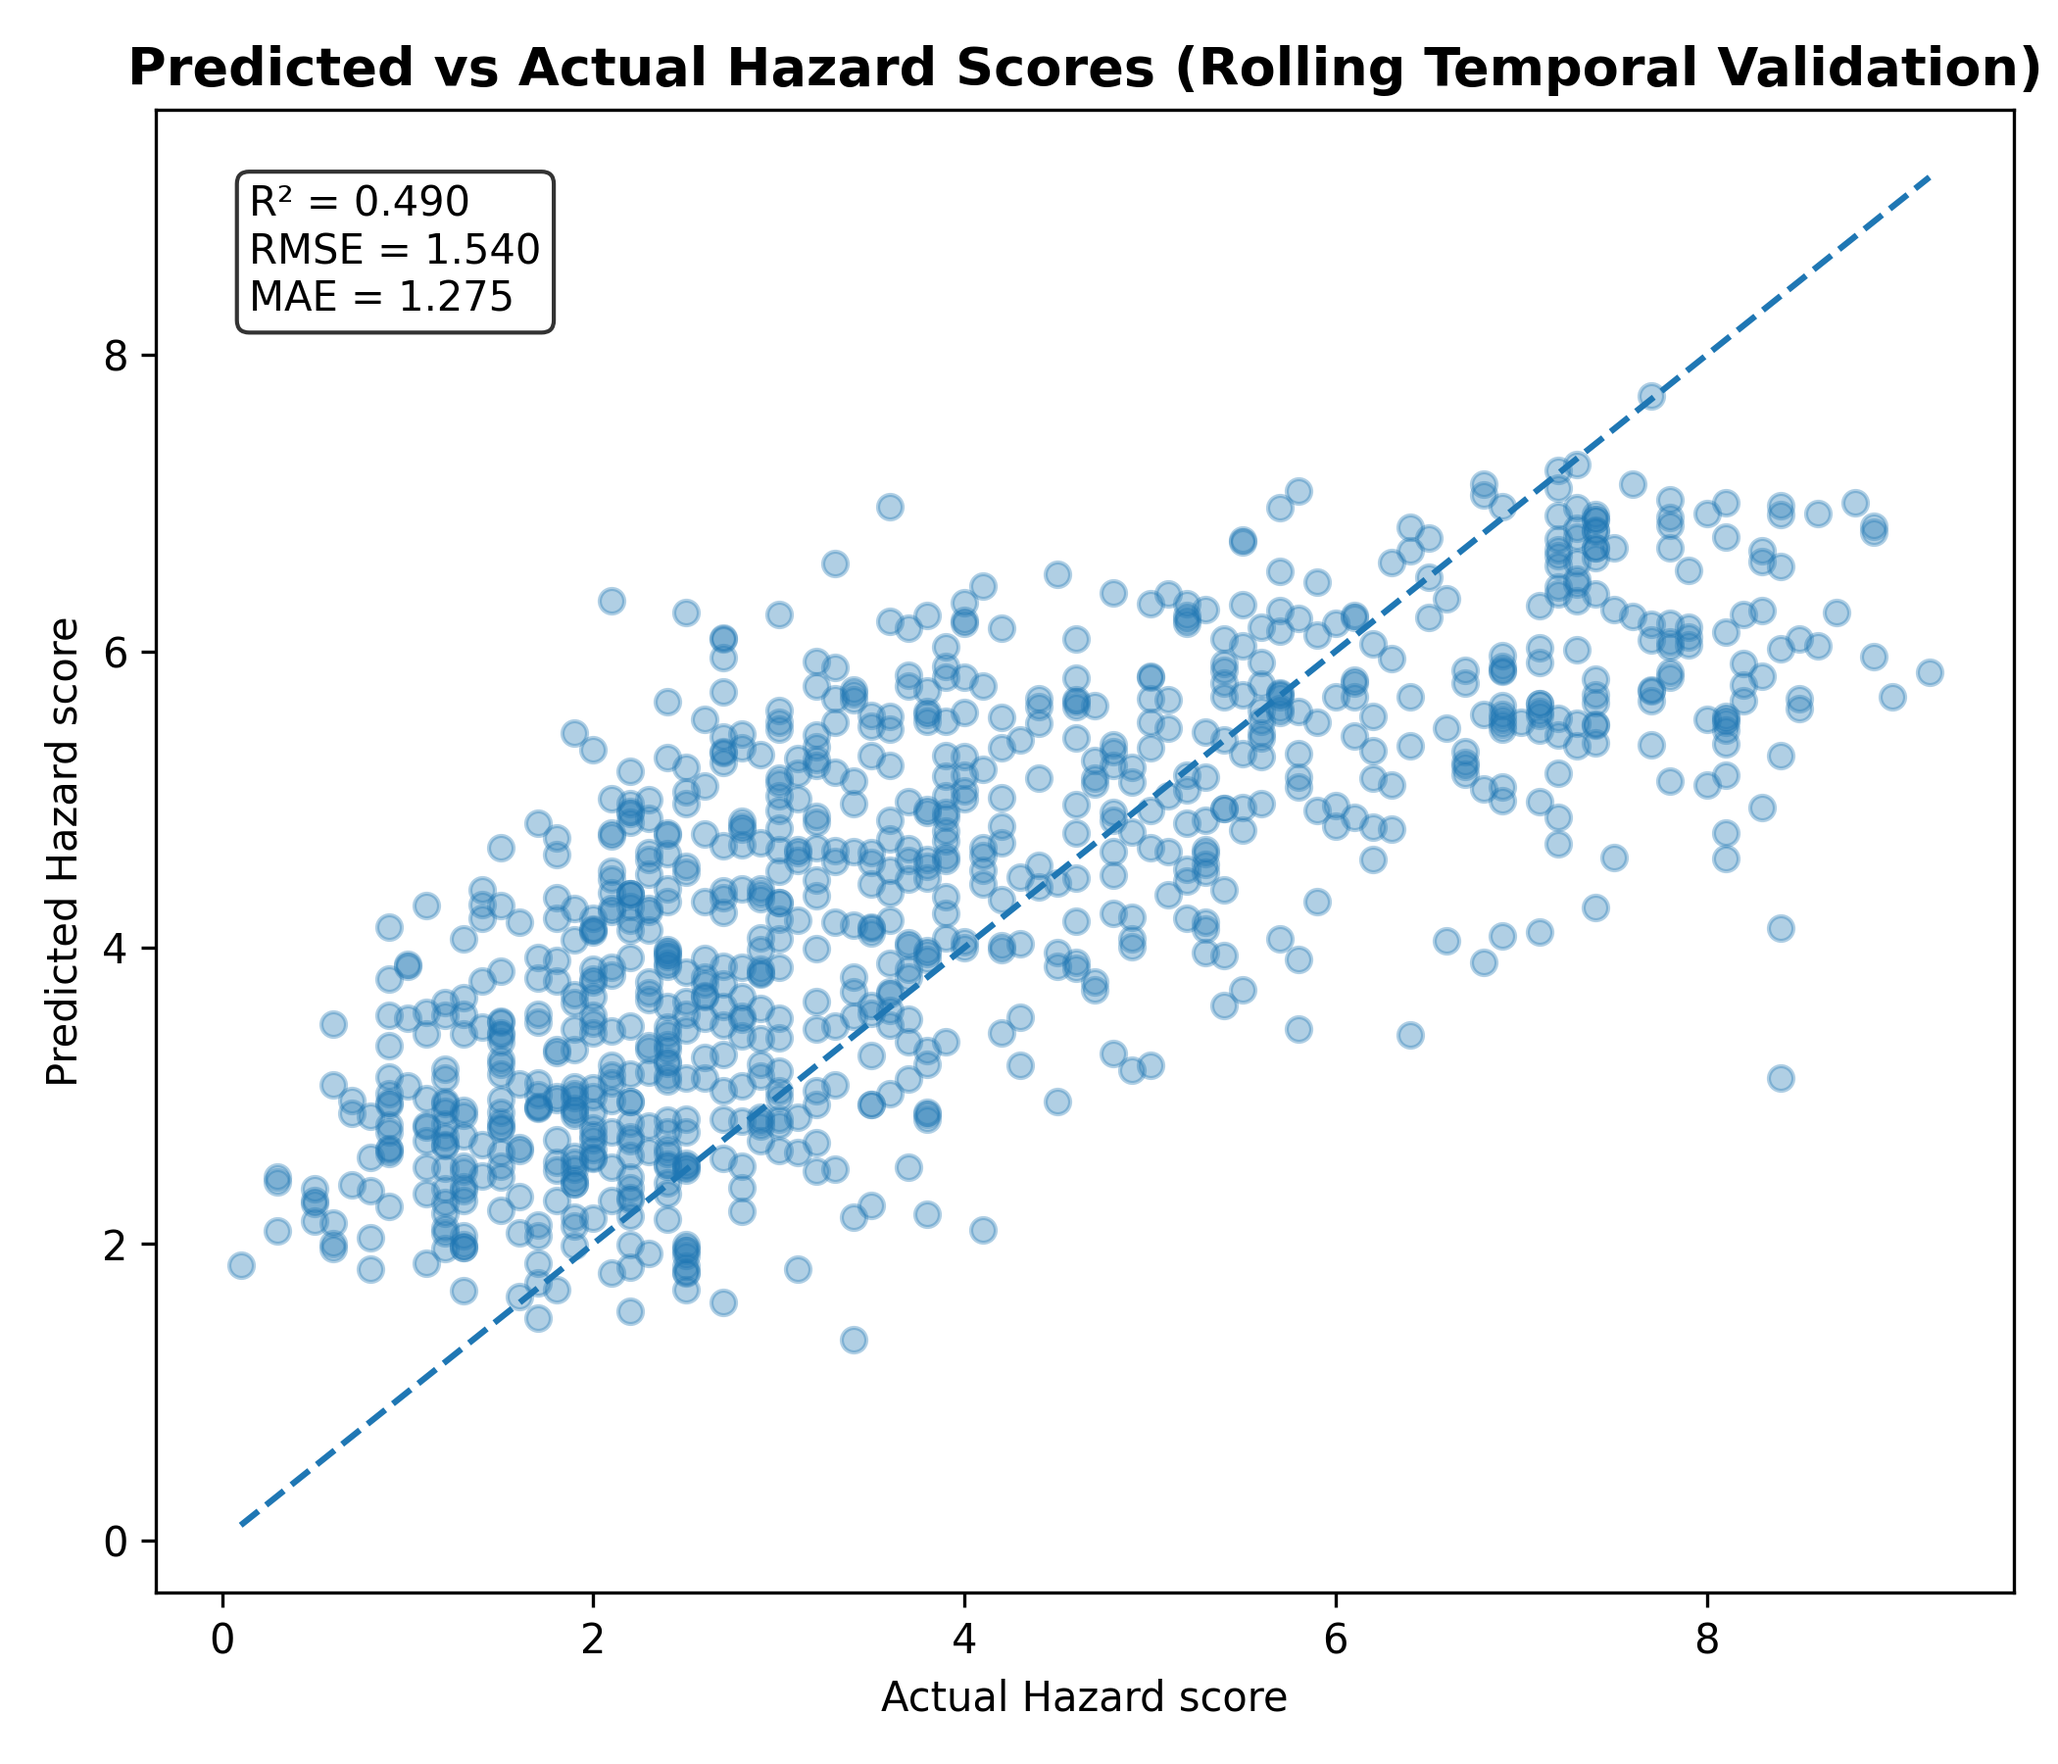
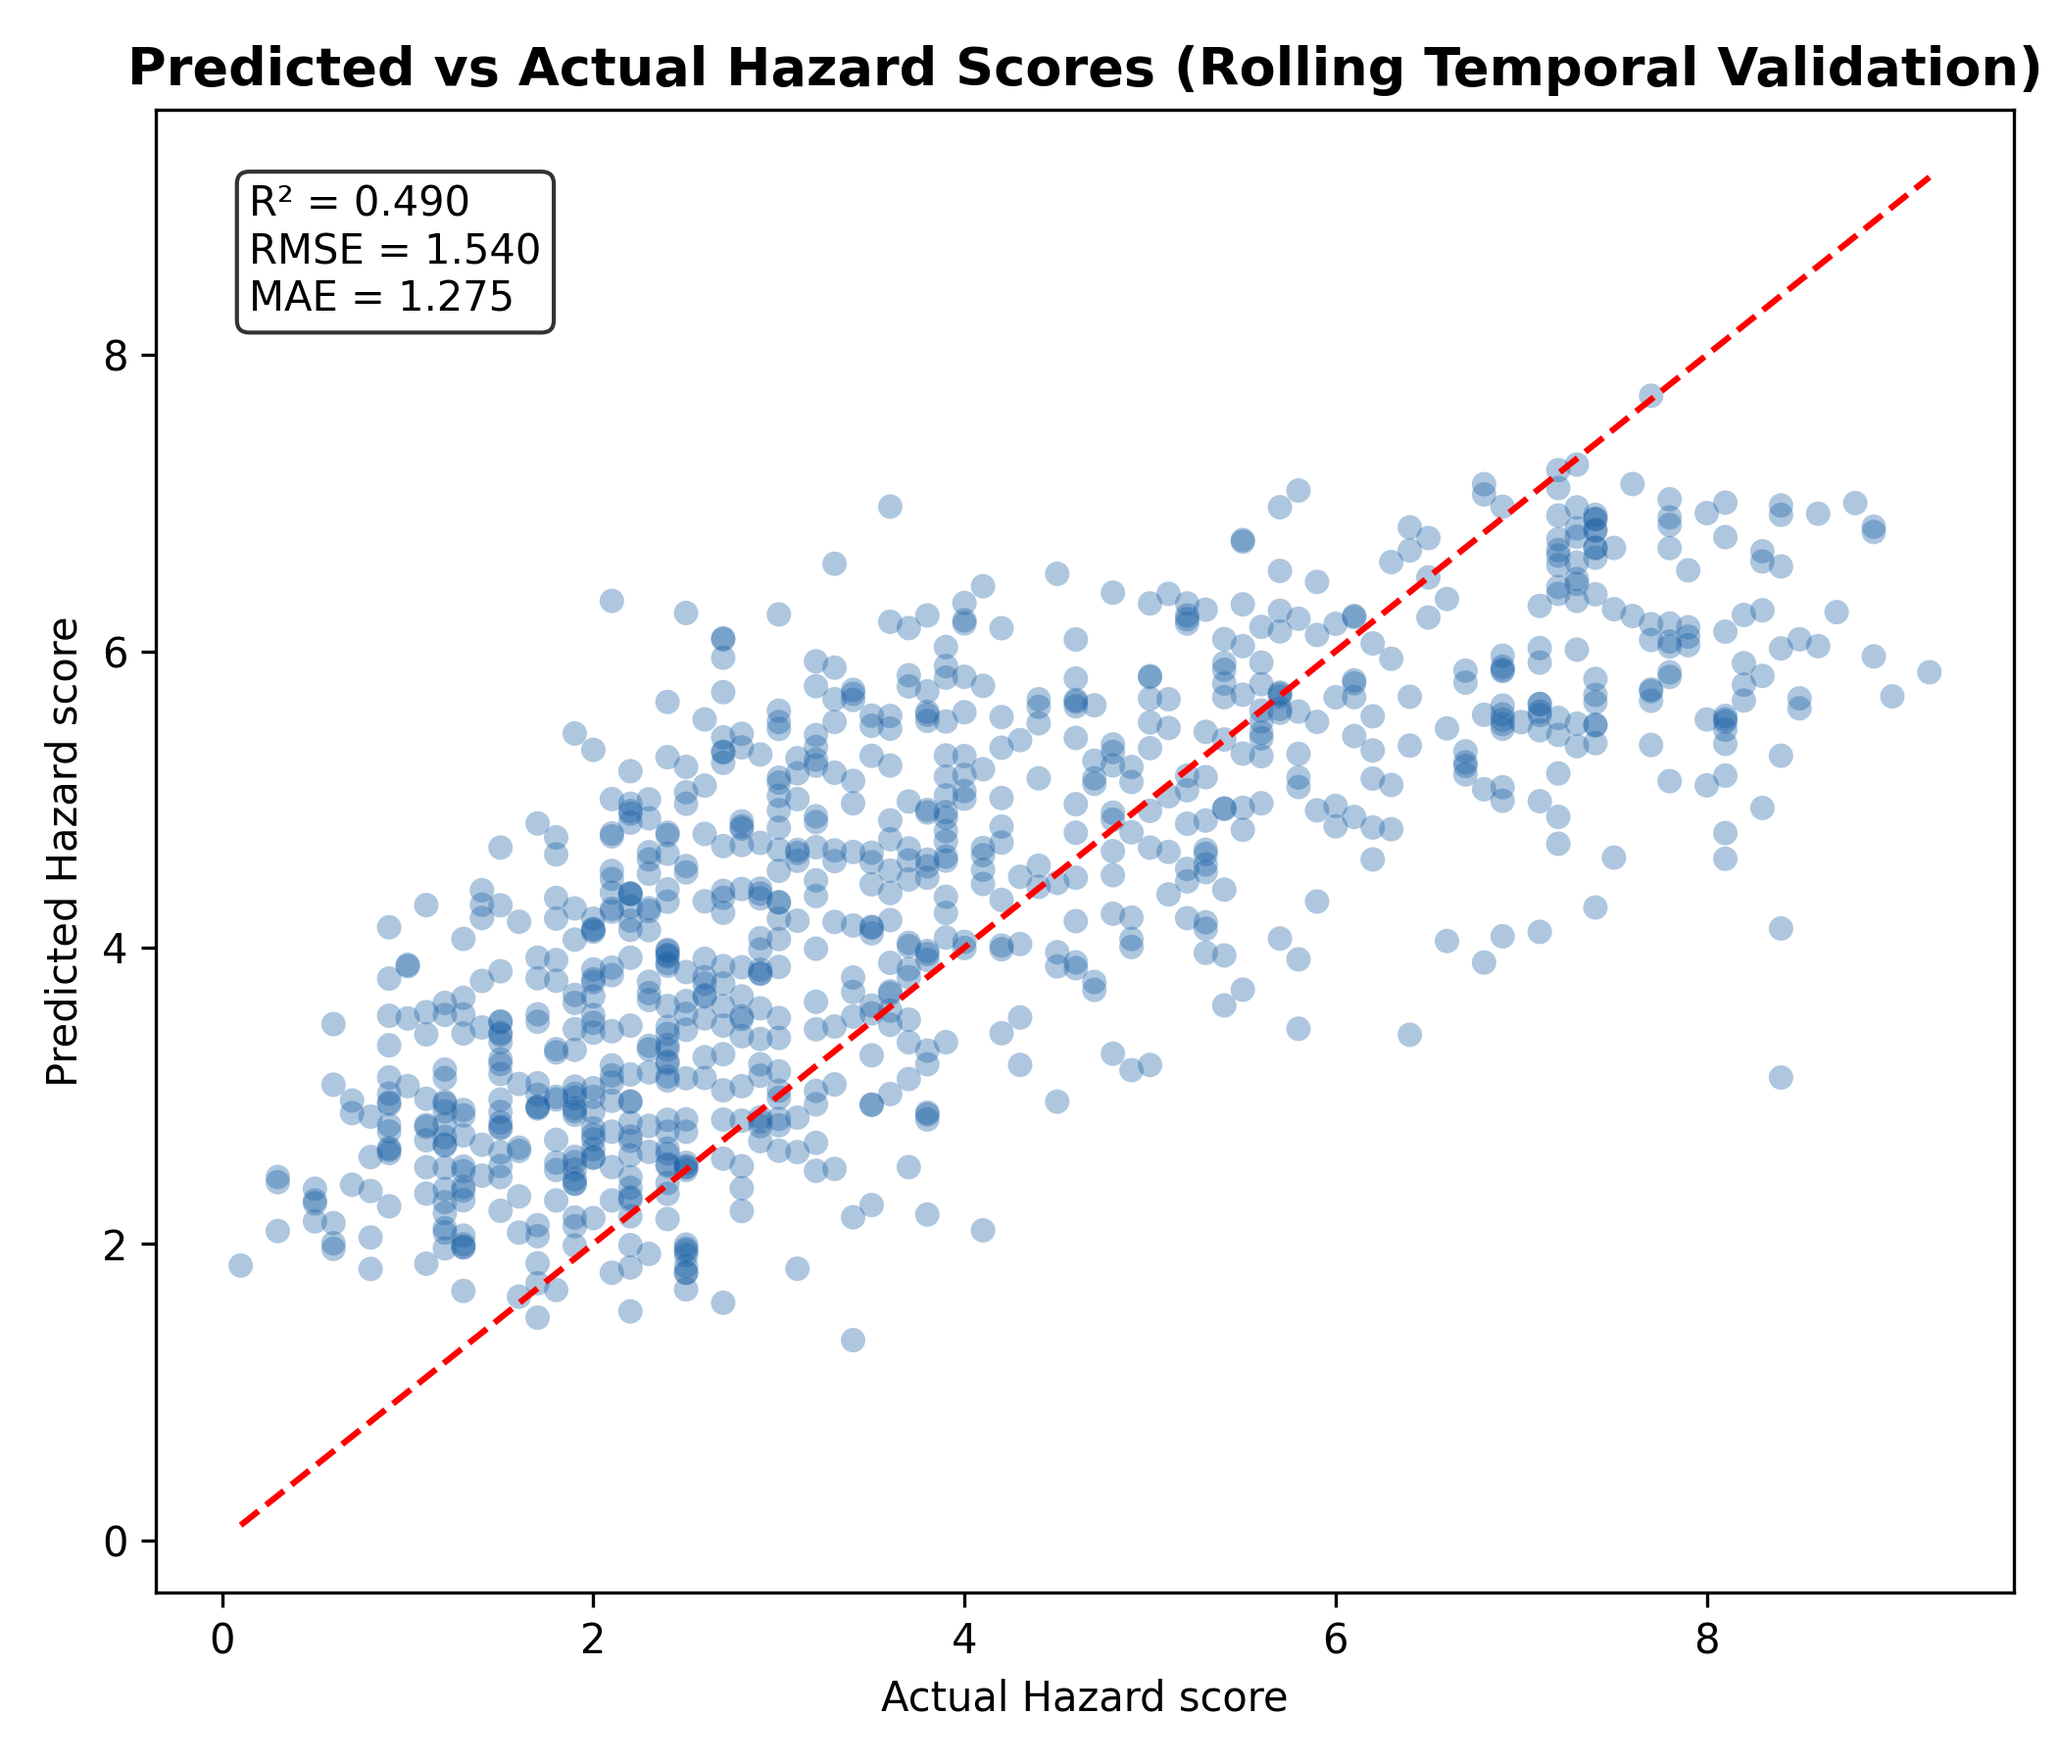
Standardize plot styling across all components
- Applied consistent color scheme:
  - Hazard (blue), Vulnerability (green), LoCC (purple)
- Set red dashed reference line for perfect predictions in all plots
- Improved visual consistency for predicted vs actual comparisons

diff --git a/src/vulnerability/plot_vulnerability_pred_vs_actual.py b/src/vulnerability/plot_vulnerability_pred_vs_actual.py
@@ -243,11 +243,26 @@ def plot_pred_vs_actual(pred_df: pd.DataFrame, title: str, output_path: Path) ->
     mae = mean_absolute_error(y_true, y_pred)
 
     fig, ax = plt.subplots(figsize=(7, 6))
-    ax.scatter(y_true, y_pred, alpha=0.35)
 
+    # Scatter (VULNERABILITY = GREEN)
+    ax.scatter(
+        y_true,
+        y_pred,
+        alpha=0.35,
+        color="#0F6E56",        # main green
+        edgecolors="none"
+    )
+
+    # Perfect prediction line (RED dashed)
     min_val = min(y_true.min(), y_pred.min())
     max_val = max(y_true.max(), y_pred.max())
-    ax.plot([min_val, max_val], [min_val, max_val], linestyle="--")
+    ax.plot(
+        [min_val, max_val],
+        [min_val, max_val],
+        linestyle="--",
+        color="red",
+        linewidth=1.5
+    )
 
     ax.set_title(title, fontsize=13, weight="bold")
     ax.set_xlabel("Actual INFORM score")

diff --git a/src/hazard/plot_hazard_pred_vs_actual.py b/src/hazard/plot_hazard_pred_vs_actual.py
@@ -212,11 +212,26 @@ def plot_pred_vs_actual(pred_df: pd.DataFrame, title: str, output_path: Path):
     mae = mean_absolute_error(y_true, y_pred)
 
     fig, ax = plt.subplots(figsize=(7, 6))
-    ax.scatter(y_true, y_pred, alpha=0.35)
 
+    # Scatter (HAZARD = BLUE)
+    ax.scatter(
+        y_true,
+        y_pred,
+        alpha=0.35,
+        color="#185FA5",      # blue
+        edgecolors="none"
+    )
+
+    # Perfect prediction line (RED dashed)
     min_val = min(y_true.min(), y_pred.min())
     max_val = max(y_true.max(), y_pred.max())
-    ax.plot([min_val, max_val], [min_val, max_val], linestyle="--")
+    ax.plot(
+        [min_val, max_val],
+        [min_val, max_val],
+        linestyle="--",
+        color="red",
+        linewidth=1.5
+    )
 
     ax.set_title(title, fontsize=13, weight="bold")
     ax.set_xlabel("Actual Hazard score")

diff --git a/src/lack_of_coping_capacity/plot_locc_pred_vs_actual.py b/src/lack_of_coping_capacity/plot_locc_pred_vs_actual.py
@@ -209,11 +209,26 @@ def plot_pred_vs_actual(pred_df: pd.DataFrame, title: str, output_path: Path):
     mae = mean_absolute_error(y_true, y_pred)
 
     fig, ax = plt.subplots(figsize=(7, 6))
-    ax.scatter(y_true, y_pred, alpha=0.35)
 
+    # Scatter (LOCC = PURPLE)
+    ax.scatter(
+        y_true,
+        y_pred,
+        alpha=0.35,
+        color="#534AB7",      # purple
+        edgecolors="none"
+    )
+
+    # Perfect prediction line (RED dashed)
     min_val = min(y_true.min(), y_pred.min())
     max_val = max(y_true.max(), y_pred.max())
-    ax.plot([min_val, max_val], [min_val, max_val], linestyle="--")
+    ax.plot(
+        [min_val, max_val],
+        [min_val, max_val],
+        linestyle="--",
+        color="red",
+        linewidth=1.5
+    )
 
     ax.set_title(title, fontsize=13, weight="bold")
     ax.set_xlabel("Actual LoCC score")
